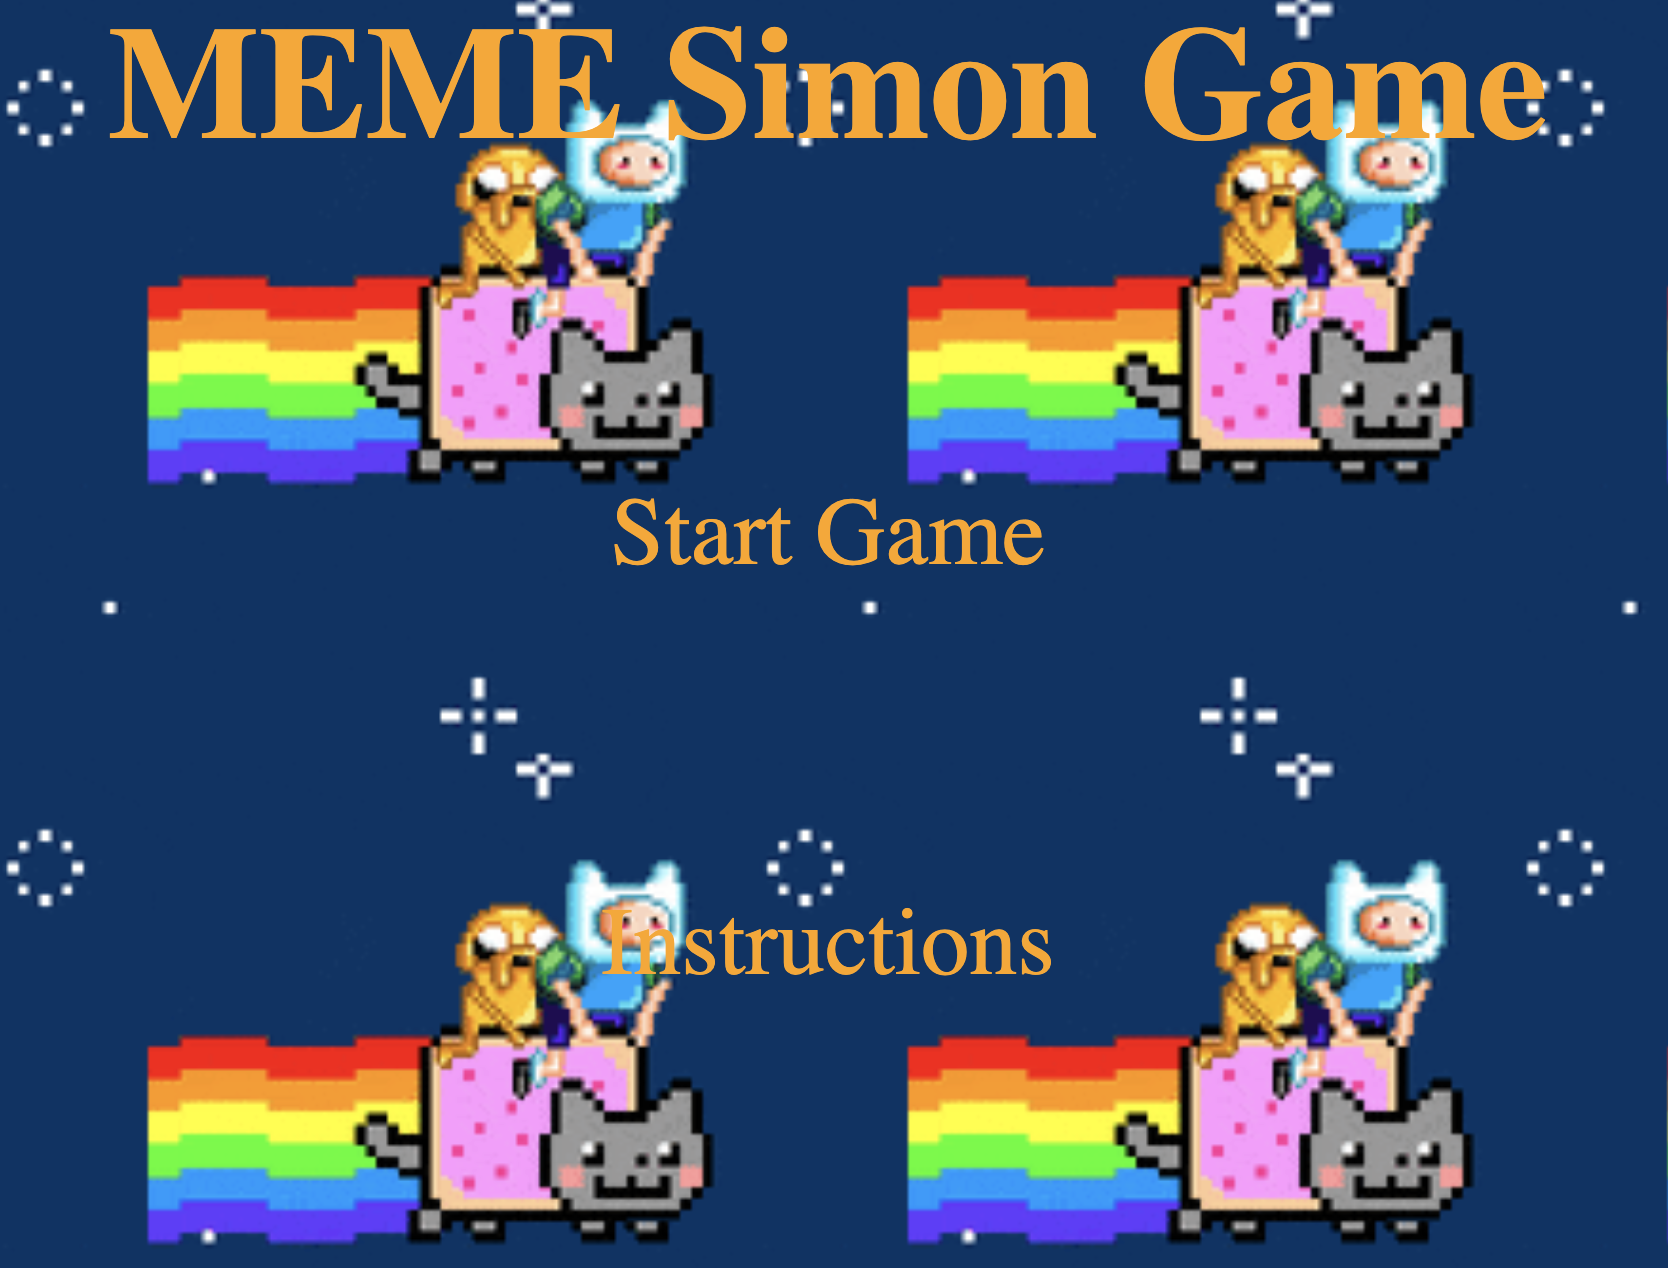
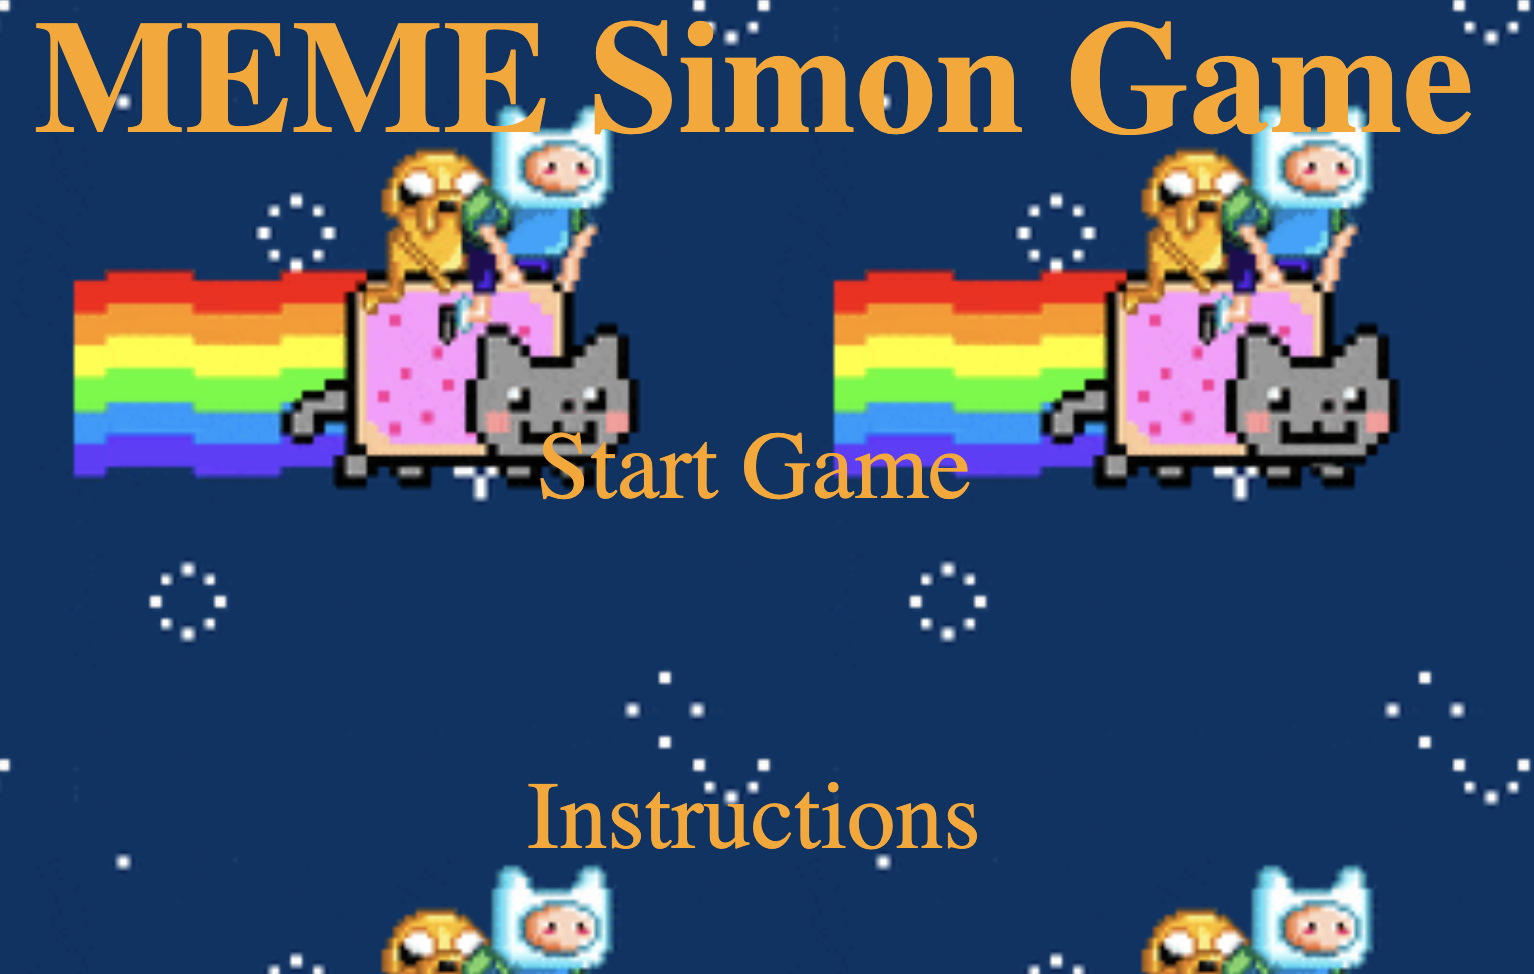
updated

diff --git a/css/style.css b/css/style.css
@@ -2,13 +2,14 @@
 * {
   padding: 0px;
   margin: 0px;
-  cursor: pointer;
+  cursor: var(--computer-cursor);
 }
 
 :root {
   --primary-color: orange;
   --primary-cursor: pointer;
   --computer-color: green;
+  --computer-cursor: url(/images/cursor.png), auto;
 }
 
 body {
@@ -35,14 +36,14 @@ body {
   text-align: center;
   margin: 120px auto;
   font-size: 3rem;
-  cursor: var(--primary-cursor);
+  cursor: var(--computer-cursor);
 }
 
 .instruction {
   text-align: center;
   margin: 60px auto;
   font-size: 3rem;
-  cursor: var(--primary-cursor);
+  cursor: var(--computer-cursor);
   bottom: 16px;
 }
 
@@ -61,7 +62,7 @@ list-style-type: none;
 }
 
 .returnButton {
-cursor: var(--primary-cursor);
+cursor: var(--computer-cursor);
 color: var(--primary-color);
 font-weight: bold;
 font-size: 32px;

diff --git a/readme.md b/readme.md
@@ -14,6 +14,7 @@ The tech that is involved in this project is HTML, CSS and Javascript.
 - Create 4 responsive buttons for the player to click (Each button will have a picture of a MEME).
 - Background image with an image gif.
 - Create a max of 10 sequences for the game. If player matches 10 sequences, player will win.
+- Picture of a meme for the cursor
 
 
 ### Wireframe
